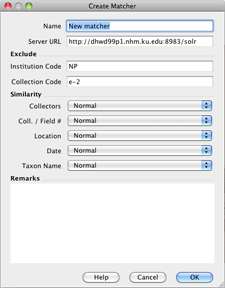
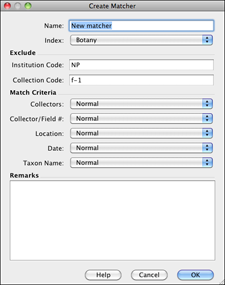
help update

Changed region(s): [[0.0, 0.0, 1.0, 1.0]]

diff --git a/Specify/help/SpecifyHelp/Plugins/Plugins.html b/Specify/help/SpecifyHelp/Plugins/Plugins.html
@@ -23,7 +23,7 @@
 <p>&nbsp;</p>
 <h3><strong><img src="../../images/GoogleEarth32x32.png" alt="google earth" width="32" height="32" /> <a name="ge" id="ge"></a>Google Earth</strong></h3>
 <blockquote>
-  <p>The Google Earth Plugin is used as a means of visualizing object records from Specify in Google Earth.</p>
+  <p>The Google Earth Plugin is used as a means of visualizing Collection Object records from Specify in Google Earth.</p>
   <p>The full version of Google Earth 4.3 must be installed on the local machine for the Specify Google Earth integration to work, not the Beta version. Go to <a href="http://earth.google.com/">earth.google.com</a> for a free download. </p>
   <p>Specify  plots locality records (or associated Collection Objects or Collecting Events) in Google Earth based on latitude and longitude data provided in the locality fields. All associated data is stored in a KML file which is launched within Google Earth upon clicking the <em>Google Earth</em> icon on the sidebar, or by dropping a Record Set  on Google Earth from within the Plugins Sidebar. </p>
   <p>Collection Object information  is shown within the Google Earth  information balloon. Specify also allows the insertion of two web service links for genus and species within the information balloon by configuring Google Earth with URLs to the web services in <em>Specify &gt; Preferences &gt; Tools</em>. </p>
@@ -37,9 +37,9 @@
 <p>&nbsp;</p>
 <h3><strong><img src="../../images/geolocate_32.png" alt="geolocate" width="32" height="32" /> <a name="biogeo" id="biogeo"></a>GEOLocate</strong></h3>
   <blockquote>
-    <p>GEOLocate has been upgraded to version 2.0 in Specify 6.4.</p>
-    <p>GEOLocate uses a description of a Locality, and three geography fields, such as County, State and Country, to find Latitude and Longitude coordinate data. This is referred to
+    <p>The GEOLocate project has created software and services for translating textual locality descriptions associated with biodiversity collections data into geographic coordinates. It uses a description of a Locality, and three geography fields, such as County, State and Country, to find Latitude and Longitude coordinate values. This is referred to
       as georeferencing. </p>
+    <p>The Specify and GEOLocate teams have collaborated to create a GEOLocate module inside Specify. In Specify 6.4 and newer GEOLocate has been upgraded to plugin version 2.0.</p>
     <p>Click  <img src="../../images/geolocate_button.png" alt="GEOLocate button" width="90" height="23" /> on the side bar and select either Collection Objects or Record Sets to send  to the GEOLocate service. Or, drag and drop a Record Set  GEOLocate on the side bar. A message will either display the number of records GEOLocate found results for, or state that no results were found. </p>
     <p align="center"><img src="../../images/geolocate_view.png" alt="View GEOLocate" width="432" height="116" /></p>
     <p align="center" class="imgcaption">View GEOLocate Results</p>
@@ -74,21 +74,23 @@
       <blockquote>
         <p><em><strong>Note:</strong></em> At this time in Specify the Uncertainty Radius values are not written in a Specify database field. </p>
         <p>Edit the Uncertainty Radius using the Marker Properties form:</p>
-        <ol>
+        <blockquote>
           <ol>
-            <li>Click  the <em>Uncertainty Radius</em> button. The box will change to accept numeric values, and a large arrow will appear on the map next to the Uncertaintly Radius point. </li>
-            <br />
+            <li>Click  the <em>Uncertainty Radius</em> button. The text box will change to accept numeric values, and a large arrow will appear on the map next to the Uncertaintly Radius point.<br />
+            </li>
             <li>Type a new numeric value into the box and click the <em>Apply</em> button to accept the changed value in the GEOLocate tool and update the Uncertainty Radius on the map.</li>
           </ol>
-        </ol>
+          <p><em><strong>Note:</strong></em> If GEOLocate does not find an Uncertainty Radius the text box will open ready to accept numerical values and the <em>Apply</em> button will be available. </p>
+        </blockquote>
         <p>Edit the Uncertaintly Radius using the map:</p>
-        <ol>
+        <blockquote>
           <ol>
-            <li>Click  the <em>Uncertainty Radius</em> button. The box will change to accept numeric values, and a large arrow will appear on the map next to the Uncertaintly Radius point. </li>
-            <br />
-            <li>Click in the center of the arrow and drag to reset the Uncertainty Radius on the map as well as the numeric value in the form. As you move your mouse within the map the corresponding Uncertainty Radius, and latituted and longitude values display in the lower right corner under the map. </li>
+            <li>Click  the <em>Uncertainty Radius</em> button. The box will change to accept numeric values, and a large arrow will appear on the map next to the Uncertaintly Radius point.<br />
+            </li>
+            <li>Click in the center of the arrow and drag to reset the Uncertainty Radius on the map as well as the numeric value in the form. As you move your mouse within the map the corresponding Uncertainty Radius, and latituted and longitude values display in the lower right corner under the map.</li>
           </ol>
-        </ol>
+          <p><em><strong>Note:</strong></em> If GEOLocate does not find an Uncertainty Radius the text box will open ready to accept numerical values and the <em>Apply</em> button will be available. You must type a value into the text box and click the <em>Apply</em> button before the arrow will appear on the map.</p>
+        </blockquote>
       </blockquote>
       <p><strong>Error Polygon</strong> is a polygon which encompasses the entire area of uncertainty. </p>
       <p>Results which include an Error Polygon will display the vertex values in the form and a red polygon on the map. Not all results include an Error Polygon. If the results do include an Error Polygon the vertex values in the form must be cleared by clicking the <em>Clear Polygon</em> button before  the Error Polygon can be edited.</p>

diff --git a/Specify/help/SpecifyHelp/Data_Entry/Data_Entry.html b/Specify/help/SpecifyHelp/Data_Entry/Data_Entry.html
@@ -492,7 +492,9 @@
       <p>&nbsp;</p>
       <p><u>GEOLocate</u></p>
       <blockquote>
-        <p>GEOLocate has been upgraded to version 2.0 in Specify 6.4.</p>
+        <p>The GEOLocate project has created software and services for translating textual locality descriptions associated with biodiversity collections data into geographic coordinates. It uses a description of a Locality, and three geography fields, such as County, State and Country, to find Latitude and Longitude coordinate values. This is referred to
+      as georeferencing. </p>
+        <p>The Specify and GEOLocate teams have collaborated to create a GEOLocate module inside Specify. In Specify 6.4 and newer GEOLocate has been upgraded to plugin version 2.0.</p>
         <p>The <img height="23" src="../../images/geolocate_button.png" width="90"> button is a
           quick link to the GEOLocate service. GEOLocate uses a description of a Locality, and three geography fields, such as County, State and Country, to find Latitude and Longitude coordinate data. This is referred to
       as georeferencing.  Once the locality information is complete, the GEOLocate
@@ -531,20 +533,23 @@
         <blockquote>
           <p><em><strong>Note:</strong></em> At this time in Specify the Uncertainty Radius values are not written in a Specify database field. </p>
         <p>Edit the Uncertainty Radius using the Marker Properties form:</p>
-        <ol>
+        <blockquote>
           <ol>
-            <li>Click  the <em>Uncertainty Radius</em> button. The box will change to accept numeric values, and a large arrow will appear on the map next to the Uncertaintly Radius point. </li><br>
+            <li>Click  the <em>Uncertainty Radius</em> button. The text box will change to accept numeric values, and a large arrow will appear on the map next to the Uncertaintly Radius point.<br />
+            </li>
             <li>Type a new numeric value into the box and click the <em>Apply</em> button to accept the changed value in the GEOLocate tool and update the Uncertainty Radius on the map.</li>
           </ol>
-        </ol>
+          <p><em><strong>Note:</strong></em> If GEOLocate does not find an Uncertainty Radius the text box will open ready to accept numerical values and the <em>Apply</em> button will be available. </p>
+        </blockquote>
         <p>Edit the Uncertaintly Radius using the map:</p>
-        <ol>
+        <blockquote>
           <ol>
-            <li>Click  the <em>Uncertainty Radius</em> button. The box will change to accept numeric values, and a large arrow will appear on the map next to the Uncertaintly Radius point. </li>
-            <br>
-            <li>Click in the center of the arrow and drag to reset the Uncertainty Radius on the map as well as the numeric value in the form. As you move your mouse within the map the corresponding Uncertainty Radius, and latituted and longitude values display in the lower right corner under the map. </li>
+            <li>Click  the <em>Uncertainty Radius</em> button. The box will change to accept numeric values, and a large arrow will appear on the map next to the Uncertaintly Radius point.<br />
+            </li>
+            <li>Click in the center of the arrow and drag to reset the Uncertainty Radius on the map as well as the numeric value in the form. As you move your mouse within the map the corresponding Uncertainty Radius, and latituted and longitude values display in the lower right corner under the map.</li>
           </ol>
-        </ol>
+          <p><em><strong>Note:</strong></em> If GEOLocate does not find an Uncertainty Radius the text box will open ready to accept numerical values and the <em>Apply</em> button will be available. You must type a value into the text box and click the <em>Apply</em> button before the arrow will appear on the map.</p>
+        </blockquote>
         </blockquote>
         <p><strong>Error Polygon</strong> is a polygon which encompasses the entire area of uncertainty. </p>
         <p>Results which include an Error Polygon will display the vertex values in the form and a red polygon on the map. Not all results include an Error Polygon. If the results do include an Error Polygon the vertex values in the form must be cleared by clicking the <em>Clear Polygon</em> button before  the Error Polygon can be edited.</p>

diff --git a/Specify/help/SpecifyHelp/Workbench/BioGiomancer.html b/Specify/help/SpecifyHelp/Workbench/BioGiomancer.html
@@ -16,9 +16,9 @@ table.box td { border-bottom: 1px solid gray; border-right: 1px solid gray }
   </tr>
 </table>
 <h2><img src="../../images/geolocate_32.png" alt="geolocate" width="32" height="32" /> GEOLocate</h2>
-<p>The WorkBench uses the GEOLocate web service to calculate the latitude and longitude positions from a textual locality description and three geography fields. 
-The WorkBench processes all the selected rows and caches the information, enabling the results to be stepped through  and the appropriate Latitude / Longitude 
-to be either selected or skipped. </p>
+    <p>The GEOLocate project has created software and services for translating textual locality descriptions associated with biodiversity collections data into geographic coordinates. It uses a description of a Locality, and three geography fields, such as County, State and Country, to find Latitude and Longitude coordinate values. This is referred to
+      as georeferencing. </p>
+    <p>The Specify and GEOLocate teams have collaborated to create a GEOLocate module inside Specify. In Specify 6.4 and newer GEOLocate has been upgraded to plugin version 2.0.</p>
 <p><em><strong>Notes: </strong></em></p>
 <ul>
   <li>If GEOLocate results are accepted, they will overwrite any existing  data in the corresponding Data Set columns.</li>
@@ -90,18 +90,20 @@ to be either selected or skipped. </p>
     <p>Edit the Uncertainty Radius using the Marker Properties form:</p>
     <blockquote>
       <ol>
-        <li>Click  the <em>Uncertainty Radius</em> button. The box will change to accept numeric values, and a large arrow will appear on the map next to the Uncertaintly Radius point.<br />
+        <li>Click  the <em>Uncertainty Radius</em> button. The text box will change to accept numeric values, and a large arrow will appear on the map next to the Uncertaintly Radius point.<br />
         </li>
         <li>Type a new numeric value into the box and click the <em>Apply</em> button to accept the changed value in the GEOLocate tool and update the Uncertainty Radius on the map.</li>
       </ol>
+      <p><em><strong>Note:</strong></em> If GEOLocate does not find an Uncertainty Radius the text box will open ready to accept numerical values and the <em>Apply</em> button will be available. </p>
     </blockquote>
     <p>Edit the Uncertaintly Radius using the map:</p>
     <blockquote>
       <ol>
         <li>Click  the <em>Uncertainty Radius</em> button. The box will change to accept numeric values, and a large arrow will appear on the map next to the Uncertaintly Radius point.<br />
         </li>
-        <li>Click in the center of the arrow and drag to reset the Uncertainty Radius on the map as well as the numeric value in the form. As you move your mouse within the map the corresponding Uncertainty Radius, and latituted and longitude values display in the lower right corner under the map. </li>
+        <li>Click in the center of the arrow and drag to reset the Uncertainty Radius on the map as well as the numeric value in the form. As you move your mouse within the map the corresponding Uncertainty Radius, and latituted and longitude values display in the lower right corner under the map.</li>
       </ol>
+      <p><em><strong>Note:</strong></em> If GEOLocate does not find an Uncertainty Radius the text box will open ready to accept numerical values and the <em>Apply</em> button will be available. You must type a value into the text box and click the <em>Apply</em> button before the arrow will appear on the map.</p>
     </blockquote>
   </blockquote>
   <p><strong>Error Polygon</strong> is a polygon which encompasses the entire area of uncertainty. </p>

diff --git a/Specify/help/SpecifyHelp/Prefs/Geolocate.html b/Specify/help/SpecifyHelp/Prefs/Geolocate.html
@@ -21,8 +21,17 @@
 
 <p>The GEOLocate preference allows features in GEOLocate to be turned on or off when using it to georeference data from Specify. </p>
 <ul>
-  <li><strong>Include Highway Crossings</strong> - If enabled, GEOLocate will search the locality string for the names of rivers and streams. If one is found, GEOLocate will snap the calculated points to the nearest point on the waterbody. This feature only works for U.S. localities and requires county data.</li><br />
-  <li><strong>Include Water Bodies - </strong>If enabled, GEOLocate will search the locality string for bridge crossing information and attempt to pinpoint the locality at the intersection of the river and highway. This feature only works for U.S. localities and requires county data.</li>
+  <li><strong>Include Highway Crossings</strong> - When enabled, GEOLocate will search the locality string for the names of rivers and streams. If one is found, GEOLocate will snap the calculated points to the nearest point on the waterbody. This feature only works for U.S. localities and requires county data.</li><br />
+  <li><strong>Include Water Bodies - </strong>When enabled, GEOLocate will search the locality string for bridge crossing information and attempt to pinpoint the locality at the intersection of the river and highway. This feature only works for U.S. localities and requires county data.</li><br />
+  <li><strong>Restrict to Lowest Administrative Unit</strong> - When enabled limits results found by GEOLocate to points within the lowest administrative unit in the locality description.</li><br />
+  <li><strong>Return Uncertainty Radius in Meters</strong> - When enabled GEOLocate will calculate and return the uncertainty radius, if one exists.</li><br />
+  <li><strong>Return Error Polygon</strong> - When enabled  GEOLocate will calculate and return the error polygon, if one exists.</li>
+  <strong><br />
+  </strong>
+  <li><strong>Displace Error Polygon</strong> - When enabled GEOLocate will use any distance value referred to in the Locality Description to displace the GEOLocate Error Polygon value (if one exists). For instance, if 10 miles North of Lawrence is in the Locality Description, but the Error Polygon in GEOLocate is a 30 mile radius around the center of Lawrence, GEOLocate will move the 30 mile radius 10 miles North of the center of Lawrence.</li>
+  <br />
+  <li><strong>Use GEOLocate's Map Server</strong> - When enabled  GEOLocate's map server is used, when disabled the WorldWind map server is used.</li><br />
+  <li><strong>Language Key</strong> - tells GEOLocate what language to use to interpret the Locality Description.</li>
 </ul>
 <h2>&nbsp;</h2>
 <p>&nbsp;</p>

diff --git a/Specify/help/SpecifyHelp/Configuration/system_setup.html b/Specify/help/SpecifyHelp/Configuration/system_setup.html
@@ -22,14 +22,14 @@
 <blockquote>
   <p><u>Preparation Types</u> are Pick Lists that have an additional function; they determine if specimens with specific preparations can be loaned. For this reason they have a form for editing purposes. Simply click Preparation Type on the side bar to bring up the form. For additional information please refer to <a href="../Configuration/prep_type.html">Editing the Preparation Type</a>.</p>
   <p><u>Pick Lists</u> that are included on the default Specify forms are referred to as 'System Pick Lists' and can be edited for individual Disciplines within Specify. This is accomplished using the Pick List Editor. System Pick Lists can also be imported and exported using additional buttons on the side bar. Please refer to <a href="../Picklist/system_picklist.html">Editing System Pick Lists</a> for additional information.</p>
-  <p><u><a name="block_logins" id="block_logins"></a>Block Logins</u> will block all other users from logging in to Specify. This feature is only available to a Specify Administrator. </p>
+  <p><u><a name="block_logins" id="block_logins"></a>Block Logins</u> will block all other users from logging in to Specify. This feature is only available to a Specify Administrator. While the logins are blocked the administrator that blocked the logins can still login in use Specify in a normal capacity. This feature is often helpful when MySQL or database tasks are being performed.</p>
   <p align="center"><img src="../../images/close_database.png" alt="close database" /></p>
   <p align="center" class="imgcaption">Close Specify Database Button</p>
   <blockquote>
-    <p align="left">When logins are being blocked the button will change to allow the database to be reopened. </p>
-    <p align="center"><img src="../../images/open_databae.png" width="134" height="25" /></p>
+    <p align="left">When logins are being blocked the button will change to allow logins again. </p>
+    <p align="center"><img src="../../images/open_databae.png" /></p>
     <p align="center" class="imgcaption">Open Specify Database Button</p>
-    <p align="left">Any users that try to login to Specify while they are being blocked will be alerted that they may not login until Logins are unblocked. </p>
+    <p align="left">Any users that try to login to Specify while they are being blocked will be alerted that they may not login until Logins are open. </p>
   </blockquote>
   <p>&nbsp;</p>
 </blockquote>

diff --git a/Specify/help/SpecifyHelp/Plugins/SGR.html b/Specify/help/SpecifyHelp/Plugins/SGR.html
@@ -89,9 +89,11 @@
 <p>&nbsp;</p>
 <ul>
   <li><strong>Name </strong>is used to name the Matcher. Use a name that relates to the kind of matching data being used.</li><br />
-  <li><strong>Server UR</strong>L is the path Specify uses to access the server. This is not an editable field at this time.</li><br />
-  <li><strong>Exclude</strong> is used to exclude your institution code and/or collection code. Use the codes that represent any data that you already have in GBIF to assure that you exclude your own data from the SGR matches. Normally, you wouldn't want to match new WorkBench data set records with what you may have already published to GBIF.</li><br />
-  <li><strong>Similarity</strong> includes the search criteria. </li>
+  <li><strong>Index</strong> refers to the type Index you wish to search.</li><br />
+  <br />
+  <li><strong>Exclude</strong> is used to exclude your institution code and/or collection code. Use the codes that represent any data that you already have in GBIF to assure that you exclude your own data from the SGR matches. Normally, you wouldn't want to match new WorkBench data set records with what you may have already published to GBIF.</li>
+  <br />
+  <li><strong>Match Criteria</strong> includes the search criteria. </li>
 </ul>
 <blockquote>
   <p>Select the criteria you wish to use to compare your data to the GBIF data indexed by the SGR server by simply clicking on the pick list next to the field name. You can also choose the amount of emphasis you wish to place on each field:  </p>

diff --git a/Specify/help/SpecifyHelp/PickList/system_picklist.html b/Specify/help/SpecifyHelp/PickList/system_picklist.html
@@ -76,7 +76,7 @@
       <p align="left">Next, choose the Pick List file from your system directory. </p>
       <p align="left">The Pick List(s) will be updated in the current collection.</p>
       <blockquote>
-        <p align="left"><em><strong>Note:</strong></em> User Defined Pick Lists should not be imported using this method UNLESS the Data Entry forms for the collection have been updated to include the pick list(s)z. Importing a User Defined Picklist without first editing the forms will cause Specify to work improperly. </p>
+        <p align="left"><em><strong>Note:</strong></em> User Defined Pick Lists should not be imported using this method UNLESS the Data Entry forms for the collection have been updated to include the pick list(s). Importing a User Defined Picklist without first editing the forms will cause Specify to work improperly. </p>
       </blockquote>
     </blockquote>
 </blockquote>
